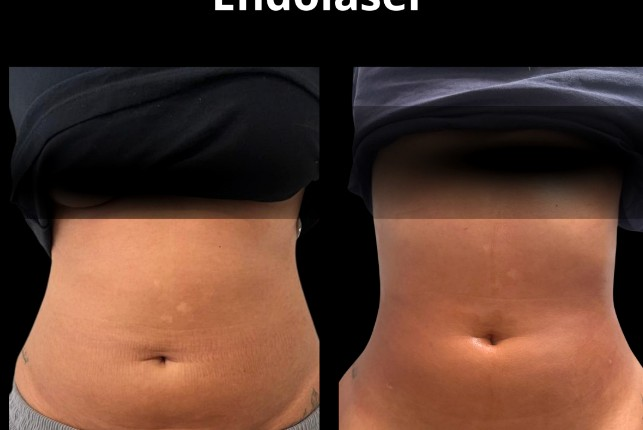
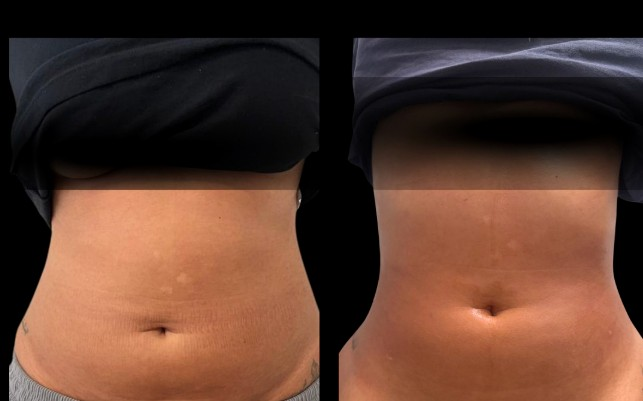
fix: corte r2 e r5 sem texto + remove formacao da home

diff --git a/index.html b/index.html
@@ -386,10 +386,7 @@
             <div class="credential-label">Especialidade</div>
             <div class="credential-value">Enfermagem Estética e Dermatológica</div>
           </div>
-          <div class="credential">
-            <div class="credential-label">Formação</div>
-            <div class="credential-value">Especialização em Enfermagem Estética e Dermatológica</div>
-          </div>
+
           <div class="credential">
             <div class="credential-label">Membro</div>
             <div class="credential-value">Saúde Integrativa & Wound Care</div>